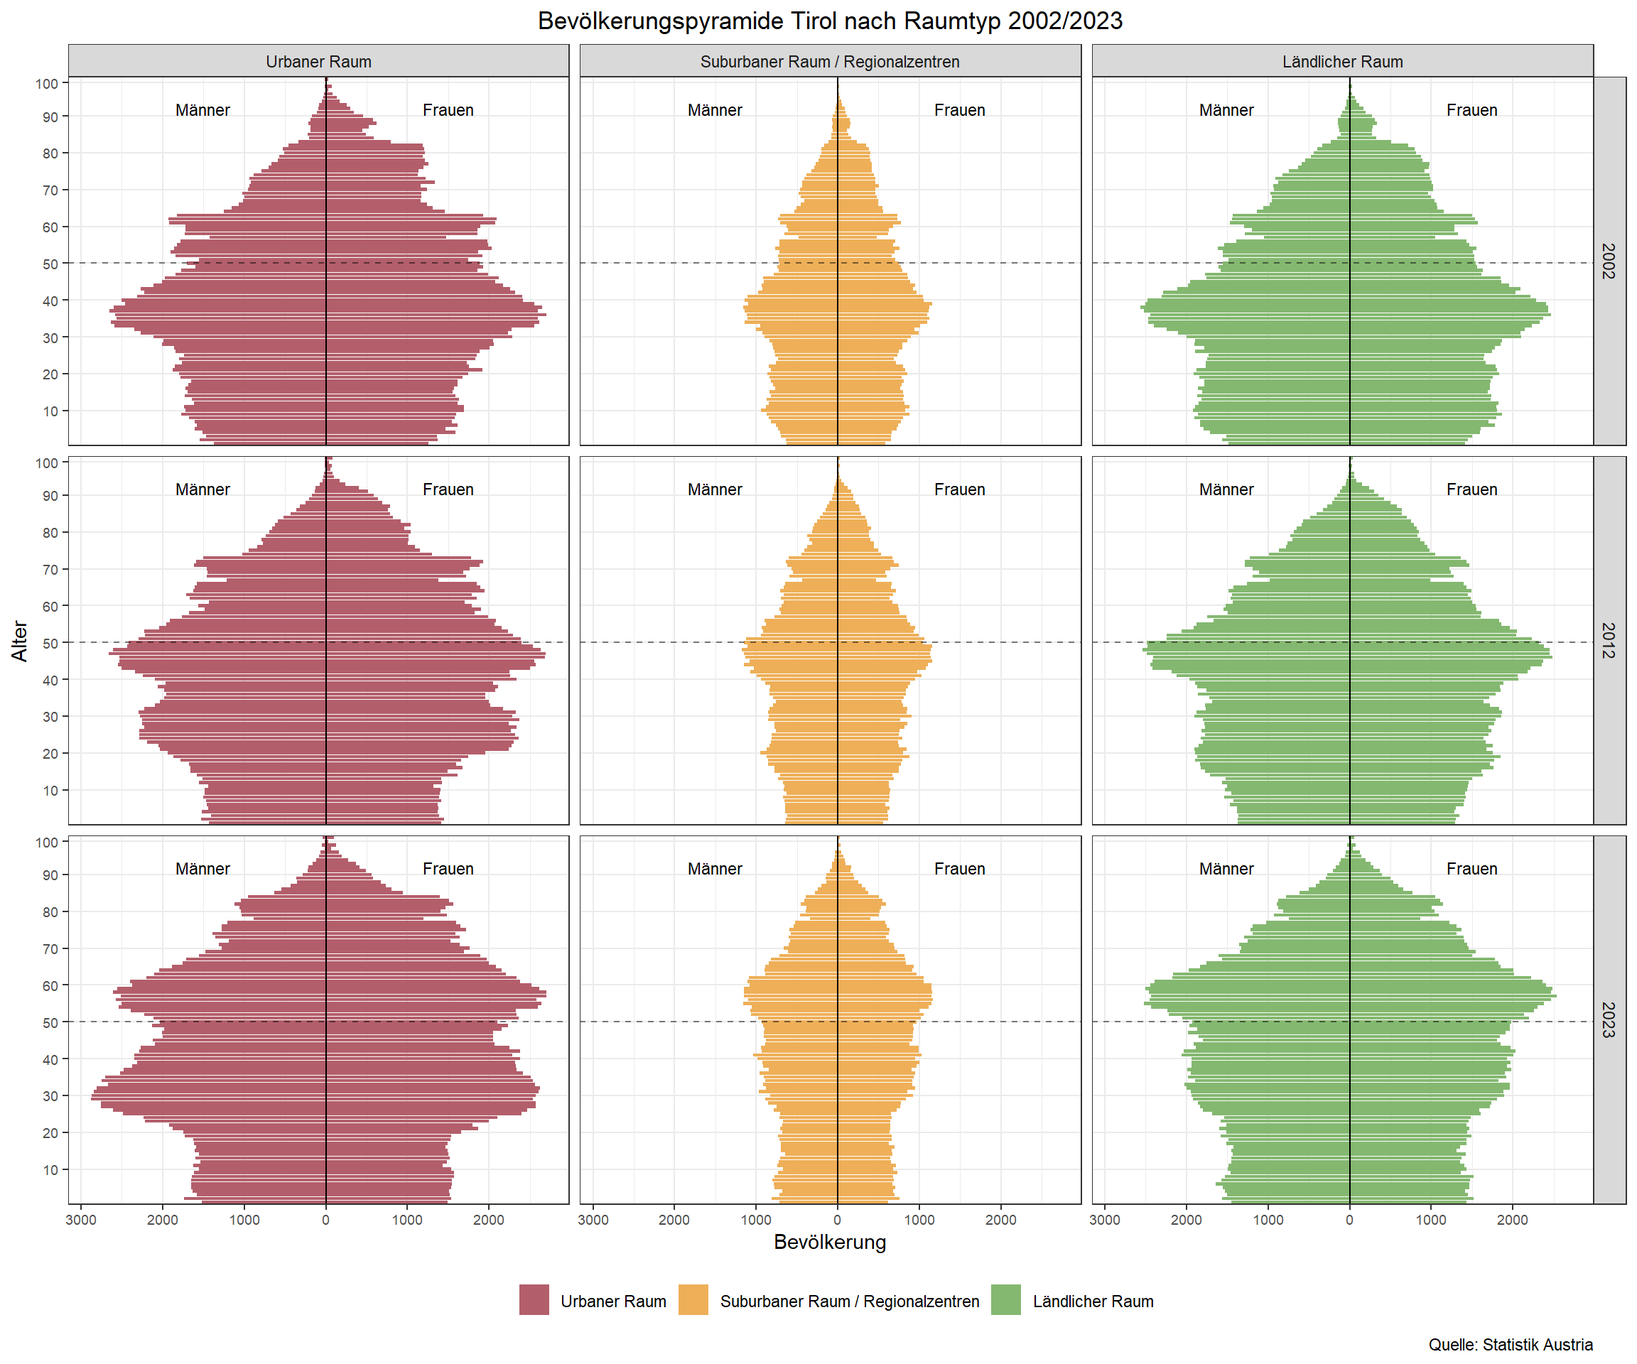
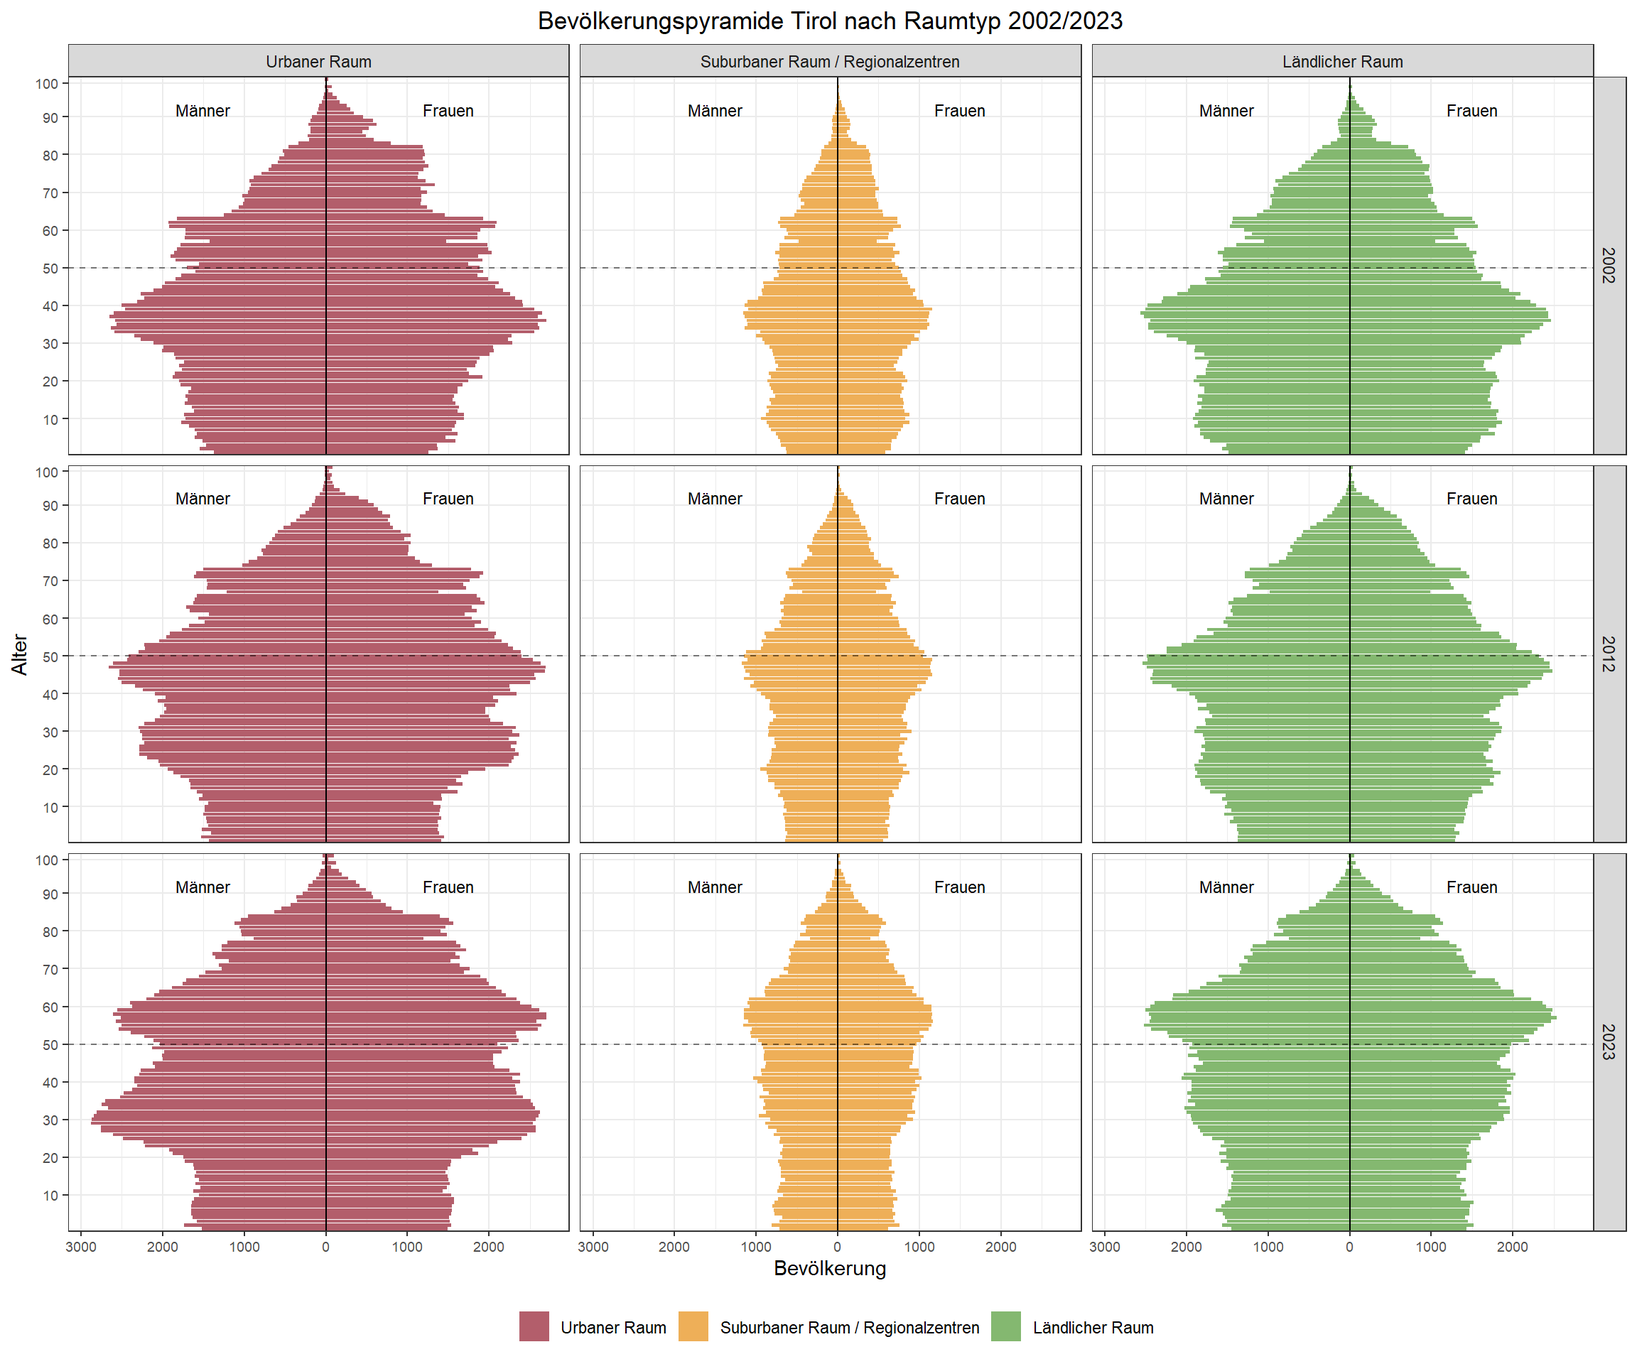
update

diff --git a/docs/05_regional_profile.html b/docs/05_regional_profile.html
@@ -233,7 +233,7 @@ window.Quarto = {
   <li><a href="#berechnungen-auf-gemeindeebene-nach-raumtypologie" id="toc-berechnungen-auf-gemeindeebene-nach-raumtypologie" class="nav-link" data-scroll-target="#berechnungen-auf-gemeindeebene-nach-raumtypologie">3.3. Berechnungen auf Gemeindeebene nach Raumtypologie</a></li>
   <li><a href="#deskriptive-statistik-mittelwert-median-und-standardabweichung" id="toc-deskriptive-statistik-mittelwert-median-und-standardabweichung" class="nav-link" data-scroll-target="#deskriptive-statistik-mittelwert-median-und-standardabweichung">3.4. Deskriptive Statistik: Mittelwert, Median und Standardabweichung</a></li>
   <li><a href="#berechnungen-für-aggregierte-gemeindetypen" id="toc-berechnungen-für-aggregierte-gemeindetypen" class="nav-link" data-scroll-target="#berechnungen-für-aggregierte-gemeindetypen">3.5. Berechnungen für aggregierte Gemeindetypen</a></li>
-  <li><a href="#diagramm-bevölkerungsdynamik" id="toc-diagramm-bevölkerungsdynamik" class="nav-link" data-scroll-target="#diagramm-bevölkerungsdynamik">3.6. Diagramm Bevölkerungsdynamik</a></li>
+  <li><a href="#komponenten-der-bevölkerungsentwicklung" id="toc-komponenten-der-bevölkerungsentwicklung" class="nav-link" data-scroll-target="#komponenten-der-bevölkerungsentwicklung">3.6. Komponenten der Bevölkerungsentwicklung</a></li>
   <li><a href="#bevölkerungspyramide-nach-raumtyp" id="toc-bevölkerungspyramide-nach-raumtyp" class="nav-link" data-scroll-target="#bevölkerungspyramide-nach-raumtyp">3.7. Bevölkerungspyramide nach Raumtyp</a></li>
   <li><a href="#kombinierte-darstellung-mit-patchwork" id="toc-kombinierte-darstellung-mit-patchwork" class="nav-link" data-scroll-target="#kombinierte-darstellung-mit-patchwork">3.8. Kombinierte Darstellung mit Patchwork</a></li>
   <li><a href="#übersichtskarte" id="toc-übersichtskarte" class="nav-link" data-scroll-target="#übersichtskarte">3.9. Übersichtskarte</a></li>
@@ -312,7 +312,7 @@ window.Quarto = {
 </section>
 <section id="berechnungen-auf-gemeindeebene-nach-raumtypologie" class="level3">
 <h3 class="anchored" data-anchor-id="berechnungen-auf-gemeindeebene-nach-raumtypologie">3.3. Berechnungen auf Gemeindeebene nach Raumtypologie</h3>
-<p>Wie bereits in Skript 2 berechnen wir relevante demografische Indizes auf Gemeindeebene.</p>
+<p>Wie bereits in Skript 2 berechnen wir relevante demografische Indizes auf Gemeindeebene. Wir führen dabei eine Zeitagreggation für die Perioden 2002-2012 und 2013-2023 durch um die Analyse langfristiger Raumentwicklungstrends zu ermöglichen.</p>
 <div class="cell">
 <div class="code-copy-outer-scaffold"><div class="sourceCode cell-code" id="cb6"><pre class="sourceCode r code-with-copy"><code class="sourceCode r"><span id="cb6-1"><a href="#cb6-1" aria-hidden="true" tabindex="-1"></a>df_agg_02_12 <span class="ot">&lt;-</span> dta <span class="sc">%&gt;%</span></span>
 <span id="cb6-2"><a href="#cb6-2" aria-hidden="true" tabindex="-1"></a>  <span class="fu">filter</span>(jahr <span class="sc">&gt;=</span> <span class="dv">2002</span>, jahr <span class="sc">&lt;=</span> <span class="dv">2012</span>) <span class="sc">%&gt;%</span></span>
@@ -387,11 +387,10 @@ window.Quarto = {
 <span id="cb7-17"><a href="#cb7-17" aria-hidden="true" tabindex="-1"></a></span>
 <span id="cb7-18"><a href="#cb7-18" aria-hidden="true" tabindex="-1"></a><span class="co">#install.packages("table1")</span></span>
 <span id="cb7-19"><a href="#cb7-19" aria-hidden="true" tabindex="-1"></a><span class="fu">library</span>(table1)</span>
-<span id="cb7-20"><a href="#cb7-20" aria-hidden="true" tabindex="-1"></a><span class="fu">label</span>(df_agg<span class="sc">$</span>pop_change_rate) <span class="ot">&lt;-</span> <span class="st">"Bevölkerungsveränderungsrate"</span></span>
-<span id="cb7-21"><a href="#cb7-21" aria-hidden="true" tabindex="-1"></a><span class="fu">label</span>(df_agg<span class="sc">$</span>bi_rate) <span class="ot">&lt;-</span> <span class="st">"Binnenwanderungsrate"</span></span>
-<span id="cb7-22"><a href="#cb7-22" aria-hidden="true" tabindex="-1"></a><span class="fu">label</span>(df_agg<span class="sc">$</span>au_rate) <span class="ot">&lt;-</span> <span class="st">"Aussenwanderungsrate"</span></span>
-<span id="cb7-23"><a href="#cb7-23" aria-hidden="true" tabindex="-1"></a><span class="fu">label</span>(df_agg<span class="sc">$</span>total_rate) <span class="ot">&lt;-</span> <span class="st">"Gesamtmigrationsrate"</span></span>
-<span id="cb7-24"><a href="#cb7-24" aria-hidden="true" tabindex="-1"></a><span class="fu">label</span>(df_agg<span class="sc">$</span>nat_rate) <span class="ot">&lt;-</span> <span class="st">"Natürliche Bevölkerunsveränderungsrate"</span></span></code></pre></div><button title="Copy to Clipboard" class="code-copy-button"><i class="bi"></i></button></div>
+<span id="cb7-20"><a href="#cb7-20" aria-hidden="true" tabindex="-1"></a><span class="fu">label</span>(df_agg<span class="sc">$</span>pop_change_rate) <span class="ot">&lt;-</span> <span class="st">"Bevölkerungsveränderungsrate (%)"</span></span>
+<span id="cb7-21"><a href="#cb7-21" aria-hidden="true" tabindex="-1"></a><span class="fu">label</span>(df_agg<span class="sc">$</span>bi_rate) <span class="ot">&lt;-</span> <span class="st">"Binnenwanderungsrate (pro 1000 EW)"</span></span>
+<span id="cb7-22"><a href="#cb7-22" aria-hidden="true" tabindex="-1"></a><span class="fu">label</span>(df_agg<span class="sc">$</span>au_rate) <span class="ot">&lt;-</span> <span class="st">"Aussenwanderungsrate (pro 1000 EW)"</span></span>
+<span id="cb7-23"><a href="#cb7-23" aria-hidden="true" tabindex="-1"></a><span class="fu">label</span>(df_agg<span class="sc">$</span>total_rate) <span class="ot">&lt;-</span> <span class="st">"Gesamtmigrationsrate (pro 1000 EW)"</span></span></code></pre></div><button title="Copy to Clipboard" class="code-copy-button"><i class="bi"></i></button></div>
 </div>
 </section>
 <section id="deskriptive-statistik-mittelwert-median-und-standardabweichung" class="level3">
@@ -413,7 +412,7 @@ x_{\frac{n+1}{2}}, &amp; \text{wenn } n \text{ ungerade ist} \\
 s = \sqrt{\frac{1}{n-1} \sum_{i=1}^{n} (x_i - \bar{x})^2}
 \]</span></p>
 <div class="cell">
-<div class="code-copy-outer-scaffold"><div class="sourceCode cell-code" id="cb8"><pre class="sourceCode r code-with-copy"><code class="sourceCode r"><span id="cb8-1"><a href="#cb8-1" aria-hidden="true" tabindex="-1"></a><span class="fu">table1</span>(<span class="sc">~</span> pop_change_rate <span class="sc">+</span> bi_rate <span class="sc">+</span> au_rate <span class="sc">+</span> total_rate <span class="sc">+</span> nat_rate <span class="sc">|</span> typ<span class="sc">*</span>decade, <span class="at">data=</span>df_agg)</span></code></pre></div><button title="Copy to Clipboard" class="code-copy-button"><i class="bi"></i></button></div>
+<div class="code-copy-outer-scaffold"><div class="sourceCode cell-code" id="cb8"><pre class="sourceCode r code-with-copy"><code class="sourceCode r"><span id="cb8-1"><a href="#cb8-1" aria-hidden="true" tabindex="-1"></a><span class="fu">table1</span>(<span class="sc">~</span> pop_change_rate <span class="sc">+</span> bi_rate <span class="sc">+</span> au_rate <span class="sc">+</span> total_rate <span class="sc">|</span> typ<span class="sc">*</span>decade, <span class="at">data=</span>df_agg)</span></code></pre></div><button title="Copy to Clipboard" class="code-copy-button"><i class="bi"></i></button></div>
 <div class="cell-output-display">
 <div class="Rtable1">
 <table class="Rtable1 caption-top table table-sm table-striped small">
@@ -475,7 +474,7 @@ Overall
 </thead>
 <tbody>
 <tr class="odd">
-<td class="rowlabel firstrow"><span class="varlabel">Bevölkerungsveränderungsrate</span></td>
+<td class="rowlabel firstrow"><span class="varlabel">Bevölkerungsveränderungsrate (%)</span></td>
 <td class="firstrow"></td>
 <td class="firstrow"></td>
 <td class="firstrow"></td>
@@ -514,7 +513,7 @@ Overall
 <td class="lastrow">6.50 [-31.4, 43.6]</td>
 </tr>
 <tr class="even">
-<td class="rowlabel firstrow"><span class="varlabel">Binnenwanderungsrate</span></td>
+<td class="rowlabel firstrow"><span class="varlabel">Binnenwanderungsrate (pro 1000 EW)</span></td>
 <td class="firstrow"></td>
 <td class="firstrow"></td>
 <td class="firstrow"></td>
@@ -553,7 +552,7 @@ Overall
 <td class="lastrow">-19.1 [-475, 933]</td>
 </tr>
 <tr class="odd">
-<td class="rowlabel firstrow"><span class="varlabel">Aussenwanderungsrate</span></td>
+<td class="rowlabel firstrow"><span class="varlabel">Aussenwanderungsrate (pro 1000 EW)</span></td>
 <td class="firstrow"></td>
 <td class="firstrow"></td>
 <td class="firstrow"></td>
@@ -592,7 +591,7 @@ Overall
 <td class="lastrow">40.9 [-37.9, 363]</td>
 </tr>
 <tr class="even">
-<td class="rowlabel firstrow"><span class="varlabel">Gesamtmigrationsrate</span></td>
+<td class="rowlabel firstrow"><span class="varlabel">Gesamtmigrationsrate (pro 1000 EW)</span></td>
 <td class="firstrow"></td>
 <td class="firstrow"></td>
 <td class="firstrow"></td>
@@ -630,45 +629,6 @@ Overall
 <td class="lastrow">-3.92 [-187, 643]</td>
 <td class="lastrow">31.5 [-390, 975]</td>
 </tr>
-<tr class="odd">
-<td class="rowlabel firstrow"><span class="varlabel">Natürliche Bevölkerunsveränderungsrate</span></td>
-<td class="firstrow"></td>
-<td class="firstrow"></td>
-<td class="firstrow"></td>
-<td class="firstrow"></td>
-<td class="firstrow"></td>
-<td class="firstrow"></td>
-<td class="firstrow"></td>
-<td class="firstrow"></td>
-<td class="firstrow"></td>
-<td class="firstrow"></td>
-</tr>
-<tr class="even">
-<td class="rowlabel">Mean (SD)</td>
-<td>24.6 (49.2)</td>
-<td>13.8 (51.6)</td>
-<td>26.6 (39.3)</td>
-<td>-3.51 (33.7)</td>
-<td>29.8 (87.1)</td>
-<td>22.4 (128)</td>
-<td>39.8 (39.4)</td>
-<td>24.0 (40.9)</td>
-<td>34.6 (56.1)</td>
-<td>21.2 (73.2)</td>
-</tr>
-<tr class="odd">
-<td class="rowlabel lastrow">Median [Min, Max]</td>
-<td class="lastrow">33.0 [-219, 102]</td>
-<td class="lastrow">18.2 [-248, 80.2]</td>
-<td class="lastrow">27.0 [-41.3, 74.5]</td>
-<td class="lastrow">-2.35 [-52.6, 53.9]</td>
-<td class="lastrow">41.1 [-639, 102]</td>
-<td class="lastrow">44.4 [-969, 109]</td>
-<td class="lastrow">43.6 [-124, 241]</td>
-<td class="lastrow">24.9 [-130, 103]</td>
-<td class="lastrow">40.5 [-639, 241]</td>
-<td class="lastrow">27.3 [-969, 109]</td>
-</tr>
 </tbody>
 </table>
 
@@ -703,7 +663,8 @@ Overall
 <span id="cb9-25"><a href="#cb9-25" aria-hidden="true" tabindex="-1"></a><span class="fu">library</span>(patchwork)</span>
 <span id="cb9-26"><a href="#cb9-26" aria-hidden="true" tabindex="-1"></a>(d1 <span class="sc">+</span> d2) <span class="sc">/</span> (d3 <span class="sc">+</span> d4)<span class="sc">+</span></span>
 <span id="cb9-27"><a href="#cb9-27" aria-hidden="true" tabindex="-1"></a><span class="fu">plot_layout</span>(<span class="at">guides =</span> <span class="st">"collect"</span>) <span class="sc">&amp;</span></span>
-<span id="cb9-28"><a href="#cb9-28" aria-hidden="true" tabindex="-1"></a>  <span class="fu">theme</span>(<span class="at">legend.position =</span> <span class="st">"bottom"</span>)</span></code></pre></div><button title="Copy to Clipboard" class="code-copy-button"><i class="bi"></i></button></div>
+<span id="cb9-28"><a href="#cb9-28" aria-hidden="true" tabindex="-1"></a>  <span class="fu">theme</span>(<span class="at">legend.position =</span> <span class="st">"bottom"</span>) <span class="sc">&amp;</span></span>
+<span id="cb9-29"><a href="#cb9-29" aria-hidden="true" tabindex="-1"></a>  <span class="fu">labs</span>(<span class="at">fill =</span> <span class="st">" "</span>)</span></code></pre></div><button title="Copy to Clipboard" class="code-copy-button"><i class="bi"></i></button></div>
 <div class="cell-output-display">
 <div>
 <figure class="figure">
@@ -770,8 +731,8 @@ Overall
 <span id="cb12-2"><a href="#cb12-2" aria-hidden="true" tabindex="-1"></a><span class="co">#fdf453 </span></span></code></pre></div><button title="Copy to Clipboard" class="code-copy-button"><i class="bi"></i></button></div>
 </div>
 </section>
-<section id="diagramm-bevölkerungsdynamik" class="level3">
-<h3 class="anchored" data-anchor-id="diagramm-bevölkerungsdynamik">3.6. Diagramm Bevölkerungsdynamik</h3>
+<section id="komponenten-der-bevölkerungsentwicklung" class="level3">
+<h3 class="anchored" data-anchor-id="komponenten-der-bevölkerungsentwicklung">3.6. Komponenten der Bevölkerungsentwicklung</h3>
 <div class="cell">
 <div class="code-copy-outer-scaffold"><div class="sourceCode cell-code" id="cb13"><pre class="sourceCode r code-with-copy"><code class="sourceCode r"><span id="cb13-1"><a href="#cb13-1" aria-hidden="true" tabindex="-1"></a>mig_typ <span class="ot">&lt;-</span> dta_typ <span class="sc">%&gt;%</span> </span>
 <span id="cb13-2"><a href="#cb13-2" aria-hidden="true" tabindex="-1"></a>  <span class="fu">select</span>(jahr, typ, bi_rate, au_rate, mig_rate, nat_rate)</span>
@@ -973,20 +934,19 @@ Overall
 <span id="cb30-11"><a href="#cb30-11" aria-hidden="true" tabindex="-1"></a>  <span class="fu">labs</span>(<span class="at">x=</span><span class="st">"Bevölkerung"</span>,</span>
 <span id="cb30-12"><a href="#cb30-12" aria-hidden="true" tabindex="-1"></a>       <span class="at">y=</span><span class="st">"Alter"</span>,</span>
 <span id="cb30-13"><a href="#cb30-13" aria-hidden="true" tabindex="-1"></a>       <span class="at">fill=</span><span class="st">""</span>,</span>
-<span id="cb30-14"><a href="#cb30-14" aria-hidden="true" tabindex="-1"></a>       <span class="at">title =</span> <span class="st">"Bevölkerungspyramide Tirol nach Raumtyp 2002/2023"</span>,</span>
-<span id="cb30-15"><a href="#cb30-15" aria-hidden="true" tabindex="-1"></a>       <span class="at">caption =</span> <span class="st">"Quelle: Statistik Austria"</span>)<span class="sc">+</span></span>
-<span id="cb30-16"><a href="#cb30-16" aria-hidden="true" tabindex="-1"></a>  <span class="fu">facet_grid</span>(jahr<span class="sc">~</span>typ)<span class="sc">+</span></span>
-<span id="cb30-17"><a href="#cb30-17" aria-hidden="true" tabindex="-1"></a>  <span class="fu">theme_bw</span>()<span class="sc">+</span></span>
-<span id="cb30-18"><a href="#cb30-18" aria-hidden="true" tabindex="-1"></a>  <span class="fu">theme</span>(<span class="at">legend.position =</span> <span class="st">"bottom"</span>)<span class="sc">+</span></span>
-<span id="cb30-19"><a href="#cb30-19" aria-hidden="true" tabindex="-1"></a>  <span class="fu">theme</span>(<span class="at">plot.title =</span> <span class="fu">element_text</span>(<span class="at">hjust =</span> <span class="fl">0.5</span>))<span class="sc">+</span></span>
-<span id="cb30-20"><a href="#cb30-20" aria-hidden="true" tabindex="-1"></a>  <span class="fu">theme</span>(</span>
-<span id="cb30-21"><a href="#cb30-21" aria-hidden="true" tabindex="-1"></a>    <span class="at">axis.text.x =</span> <span class="fu">element_text</span>(<span class="at">size =</span> <span class="dv">7</span>),</span>
-<span id="cb30-22"><a href="#cb30-22" aria-hidden="true" tabindex="-1"></a>    <span class="at">axis.text.y =</span> <span class="fu">element_text</span>(<span class="at">size =</span> <span class="dv">7</span>)</span>
-<span id="cb30-23"><a href="#cb30-23" aria-hidden="true" tabindex="-1"></a>  )<span class="sc">+</span></span>
-<span id="cb30-24"><a href="#cb30-24" aria-hidden="true" tabindex="-1"></a>  <span class="fu">annotate</span>(<span class="at">geom=</span><span class="st">"text"</span>, <span class="at">x=</span><span class="sc">-</span><span class="dv">1500</span>, <span class="at">y=</span><span class="dv">92</span>, <span class="at">label=</span><span class="st">"Männer"</span>, <span class="at">size=</span><span class="dv">3</span>) <span class="sc">+</span></span>
-<span id="cb30-25"><a href="#cb30-25" aria-hidden="true" tabindex="-1"></a>  <span class="fu">annotate</span>(<span class="at">geom=</span><span class="st">"text"</span>, <span class="at">x=</span><span class="dv">1500</span>, <span class="at">y=</span><span class="dv">92</span>, <span class="at">label=</span><span class="st">"Frauen"</span>, <span class="at">size=</span><span class="dv">3</span>) </span>
-<span id="cb30-26"><a href="#cb30-26" aria-hidden="true" tabindex="-1"></a></span>
-<span id="cb30-27"><a href="#cb30-27" aria-hidden="true" tabindex="-1"></a>p4</span></code></pre></div><button title="Copy to Clipboard" class="code-copy-button"><i class="bi"></i></button></div>
+<span id="cb30-14"><a href="#cb30-14" aria-hidden="true" tabindex="-1"></a>       <span class="at">title =</span> <span class="st">"Bevölkerungspyramide Tirol nach Raumtyp 2002/2023"</span>)<span class="sc">+</span></span>
+<span id="cb30-15"><a href="#cb30-15" aria-hidden="true" tabindex="-1"></a>  <span class="fu">facet_grid</span>(jahr<span class="sc">~</span>typ)<span class="sc">+</span></span>
+<span id="cb30-16"><a href="#cb30-16" aria-hidden="true" tabindex="-1"></a>  <span class="fu">theme_bw</span>()<span class="sc">+</span></span>
+<span id="cb30-17"><a href="#cb30-17" aria-hidden="true" tabindex="-1"></a>  <span class="fu">theme</span>(<span class="at">legend.position =</span> <span class="st">"bottom"</span>)<span class="sc">+</span></span>
+<span id="cb30-18"><a href="#cb30-18" aria-hidden="true" tabindex="-1"></a>  <span class="fu">theme</span>(<span class="at">plot.title =</span> <span class="fu">element_text</span>(<span class="at">hjust =</span> <span class="fl">0.5</span>))<span class="sc">+</span></span>
+<span id="cb30-19"><a href="#cb30-19" aria-hidden="true" tabindex="-1"></a>  <span class="fu">theme</span>(</span>
+<span id="cb30-20"><a href="#cb30-20" aria-hidden="true" tabindex="-1"></a>    <span class="at">axis.text.x =</span> <span class="fu">element_text</span>(<span class="at">size =</span> <span class="dv">7</span>),</span>
+<span id="cb30-21"><a href="#cb30-21" aria-hidden="true" tabindex="-1"></a>    <span class="at">axis.text.y =</span> <span class="fu">element_text</span>(<span class="at">size =</span> <span class="dv">7</span>)</span>
+<span id="cb30-22"><a href="#cb30-22" aria-hidden="true" tabindex="-1"></a>  )<span class="sc">+</span></span>
+<span id="cb30-23"><a href="#cb30-23" aria-hidden="true" tabindex="-1"></a>  <span class="fu">annotate</span>(<span class="at">geom=</span><span class="st">"text"</span>, <span class="at">x=</span><span class="sc">-</span><span class="dv">1500</span>, <span class="at">y=</span><span class="dv">92</span>, <span class="at">label=</span><span class="st">"Männer"</span>, <span class="at">size=</span><span class="dv">3</span>) <span class="sc">+</span></span>
+<span id="cb30-24"><a href="#cb30-24" aria-hidden="true" tabindex="-1"></a>  <span class="fu">annotate</span>(<span class="at">geom=</span><span class="st">"text"</span>, <span class="at">x=</span><span class="dv">1500</span>, <span class="at">y=</span><span class="dv">92</span>, <span class="at">label=</span><span class="st">"Frauen"</span>, <span class="at">size=</span><span class="dv">3</span>) </span>
+<span id="cb30-25"><a href="#cb30-25" aria-hidden="true" tabindex="-1"></a></span>
+<span id="cb30-26"><a href="#cb30-26" aria-hidden="true" tabindex="-1"></a>p4</span></code></pre></div><button title="Copy to Clipboard" class="code-copy-button"><i class="bi"></i></button></div>
 <div class="cell-output-display">
 <div>
 <figure class="figure">
@@ -1007,7 +967,14 @@ Overall
 <span id="cb31-6"><a href="#cb31-6" aria-hidden="true" tabindex="-1"></a>p1 <span class="ot">&lt;-</span> p1 <span class="sc">+</span> <span class="fu">labs</span>(<span class="at">caption =</span> <span class="cn">NULL</span>, <span class="at">title =</span> <span class="st">" "</span>)</span>
 <span id="cb31-7"><a href="#cb31-7" aria-hidden="true" tabindex="-1"></a></span>
 <span id="cb31-8"><a href="#cb31-8" aria-hidden="true" tabindex="-1"></a></span>
-<span id="cb31-9"><a href="#cb31-9" aria-hidden="true" tabindex="-1"></a><span class="co"># p4 + p1 / p2</span></span></code></pre></div><button title="Copy to Clipboard" class="code-copy-button"><i class="bi"></i></button></div>
+<span id="cb31-9"><a href="#cb31-9" aria-hidden="true" tabindex="-1"></a> p4 <span class="sc">+</span> p1 <span class="sc">/</span> p2</span></code></pre></div><button title="Copy to Clipboard" class="code-copy-button"><i class="bi"></i></button></div>
+<div class="cell-output-display">
+<div>
+<figure class="figure">
+<p><img src="05_regional_profile_files/figure-html/unnamed-chunk-22-1.png" class="img-fluid figure-img" width="768"></p>
+</figure>
+</div>
+</div>
 </div>
 </section>
 <section id="übersichtskarte" class="level3">
